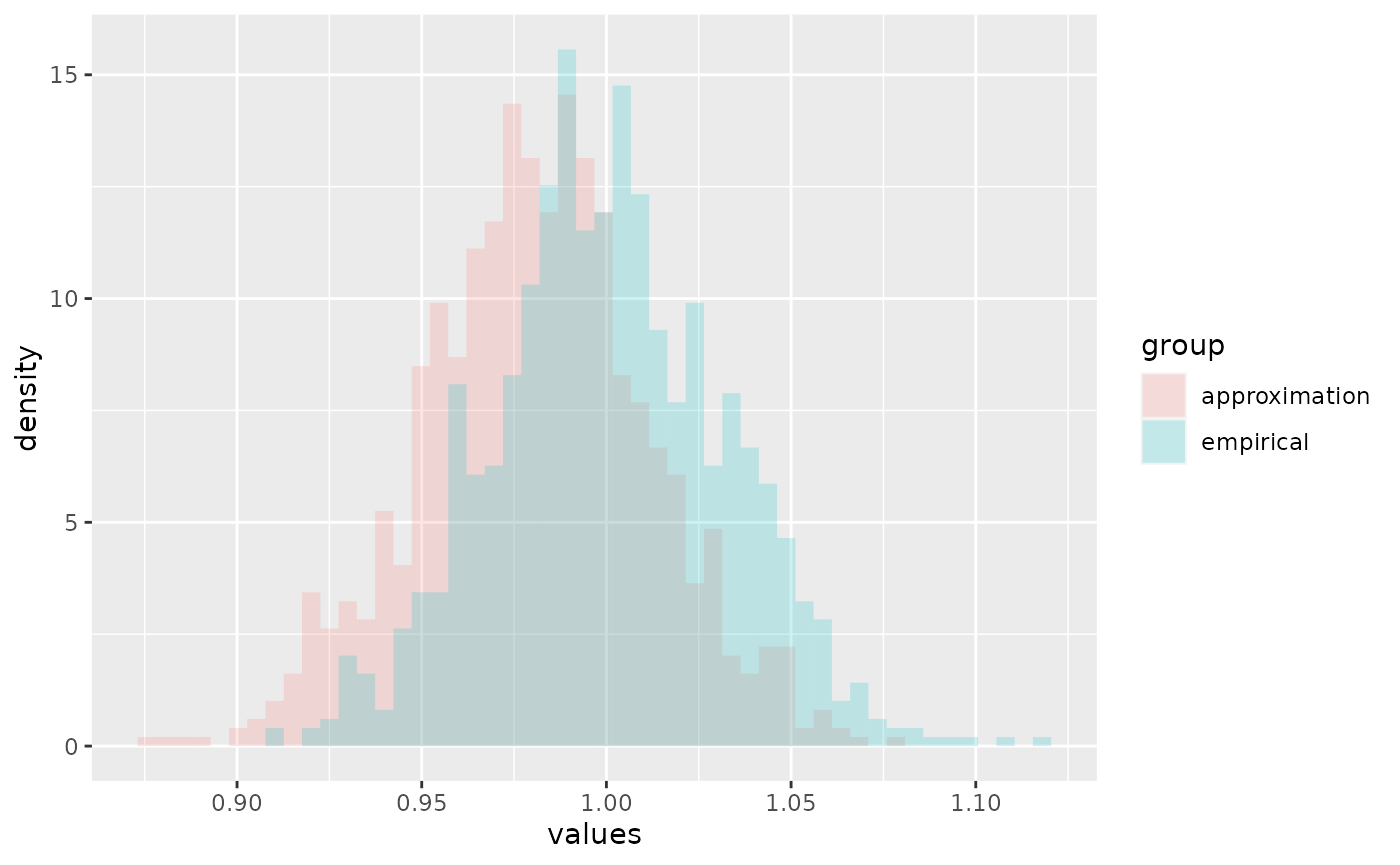
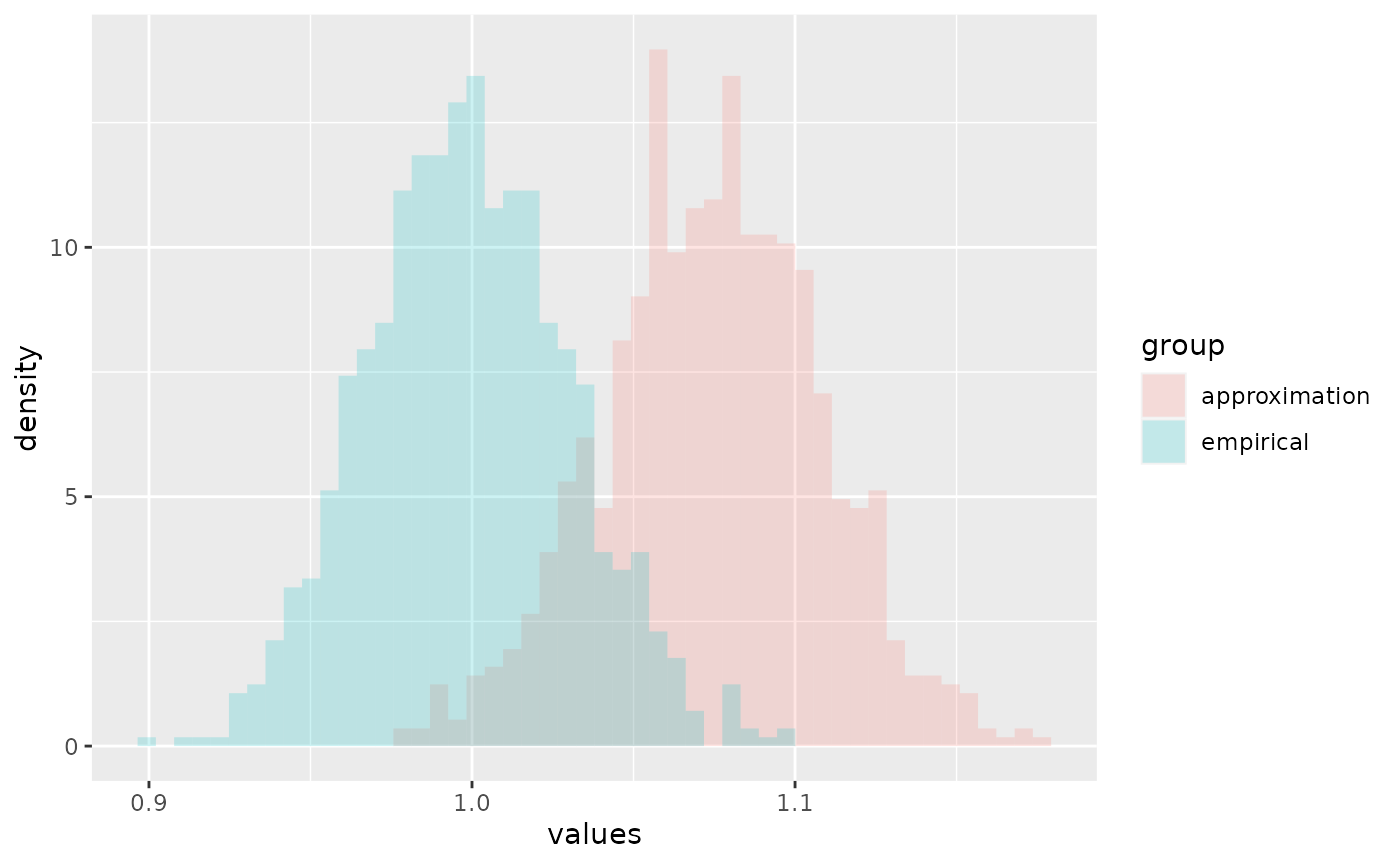
Built site for algebraic.mle: 0.9.0@d68ebe6

diff --git a/reference/mle_boot_loglike.html b/reference/mle_boot_loglike.html
@@ -1,8 +1,8 @@
 <!DOCTYPE html>
 <!-- Generated by pkgdown: do not edit by hand --><html lang="en"><head><meta http-equiv="Content-Type" content="text/html; charset=UTF-8"><meta charset="utf-8"><meta http-equiv="X-UA-Compatible" content="IE=edge"><meta name="viewport" content="width=device-width, initial-scale=1, shrink-to-fit=no"><meta name="description" content="A function for computing the sampling distribution of a statistic of the
 MLE's sampling distribution using the Bootstrap method."><title>A function for computing the sampling distribution of a statistic of the
-MLE's sampling distribution using the Bootstrap method. — mle_samp_bs_loglike • algebraic.mle</title><script src="../deps/jquery-3.6.0/jquery-3.6.0.min.js"></script><meta name="viewport" content="width=device-width, initial-scale=1, shrink-to-fit=no"><link href="../deps/bootstrap-5.1.0/bootstrap.min.css" rel="stylesheet"><script src="../deps/bootstrap-5.1.0/bootstrap.bundle.min.js"></script><!-- Font Awesome icons --><link rel="stylesheet" href="https://cdnjs.cloudflare.com/ajax/libs/font-awesome/5.12.1/css/all.min.css" integrity="sha256-mmgLkCYLUQbXn0B1SRqzHar6dCnv9oZFPEC1g1cwlkk=" crossorigin="anonymous"><link rel="stylesheet" href="https://cdnjs.cloudflare.com/ajax/libs/font-awesome/5.12.1/css/v4-shims.min.css" integrity="sha256-wZjR52fzng1pJHwx4aV2AO3yyTOXrcDW7jBpJtTwVxw=" crossorigin="anonymous"><!-- bootstrap-toc --><script src="https://cdn.rawgit.com/afeld/bootstrap-toc/v1.0.1/dist/bootstrap-toc.min.js"></script><!-- headroom.js --><script src="https://cdnjs.cloudflare.com/ajax/libs/headroom/0.11.0/headroom.min.js" integrity="sha256-AsUX4SJE1+yuDu5+mAVzJbuYNPHj/WroHuZ8Ir/CkE0=" crossorigin="anonymous"></script><script src="https://cdnjs.cloudflare.com/ajax/libs/headroom/0.11.0/jQuery.headroom.min.js" integrity="sha256-ZX/yNShbjqsohH1k95liqY9Gd8uOiE1S4vZc+9KQ1K4=" crossorigin="anonymous"></script><!-- clipboard.js --><script src="https://cdnjs.cloudflare.com/ajax/libs/clipboard.js/2.0.6/clipboard.min.js" integrity="sha256-inc5kl9MA1hkeYUt+EC3BhlIgyp/2jDIyBLS6k3UxPI=" crossorigin="anonymous"></script><!-- search --><script src="https://cdnjs.cloudflare.com/ajax/libs/fuse.js/6.4.6/fuse.js" integrity="sha512-zv6Ywkjyktsohkbp9bb45V6tEMoWhzFzXis+LrMehmJZZSys19Yxf1dopHx7WzIKxr5tK2dVcYmaCk2uqdjF4A==" crossorigin="anonymous"></script><script src="https://cdnjs.cloudflare.com/ajax/libs/autocomplete.js/0.38.0/autocomplete.jquery.min.js" integrity="sha512-GU9ayf+66Xx2TmpxqJpliWbT5PiGYxpaG8rfnBEk1LL8l1KGkRShhngwdXK1UgqhAzWpZHSiYPc09/NwDQIGyg==" crossorigin="anonymous"></script><script src="https://cdnjs.cloudflare.com/ajax/libs/mark.js/8.11.1/mark.min.js" integrity="sha512-5CYOlHXGh6QpOFA/TeTylKLWfB3ftPsde7AnmhuitiTX4K5SqCLBeKro6sPS8ilsz1Q4NRx3v8Ko2IBiszzdww==" crossorigin="anonymous"></script><!-- pkgdown --><script src="../pkgdown.js"></script><meta property="og:title" content="A function for computing the sampling distribution of a statistic of the
-MLE's sampling distribution using the Bootstrap method. — mle_samp_bs_loglike"><meta property="og:description" content="A function for computing the sampling distribution of a statistic of the
+MLE's sampling distribution using the Bootstrap method. — mle_boot_loglike • algebraic.mle</title><script src="../deps/jquery-3.6.0/jquery-3.6.0.min.js"></script><meta name="viewport" content="width=device-width, initial-scale=1, shrink-to-fit=no"><link href="../deps/bootstrap-5.1.0/bootstrap.min.css" rel="stylesheet"><script src="../deps/bootstrap-5.1.0/bootstrap.bundle.min.js"></script><!-- Font Awesome icons --><link rel="stylesheet" href="https://cdnjs.cloudflare.com/ajax/libs/font-awesome/5.12.1/css/all.min.css" integrity="sha256-mmgLkCYLUQbXn0B1SRqzHar6dCnv9oZFPEC1g1cwlkk=" crossorigin="anonymous"><link rel="stylesheet" href="https://cdnjs.cloudflare.com/ajax/libs/font-awesome/5.12.1/css/v4-shims.min.css" integrity="sha256-wZjR52fzng1pJHwx4aV2AO3yyTOXrcDW7jBpJtTwVxw=" crossorigin="anonymous"><!-- bootstrap-toc --><script src="https://cdn.rawgit.com/afeld/bootstrap-toc/v1.0.1/dist/bootstrap-toc.min.js"></script><!-- headroom.js --><script src="https://cdnjs.cloudflare.com/ajax/libs/headroom/0.11.0/headroom.min.js" integrity="sha256-AsUX4SJE1+yuDu5+mAVzJbuYNPHj/WroHuZ8Ir/CkE0=" crossorigin="anonymous"></script><script src="https://cdnjs.cloudflare.com/ajax/libs/headroom/0.11.0/jQuery.headroom.min.js" integrity="sha256-ZX/yNShbjqsohH1k95liqY9Gd8uOiE1S4vZc+9KQ1K4=" crossorigin="anonymous"></script><!-- clipboard.js --><script src="https://cdnjs.cloudflare.com/ajax/libs/clipboard.js/2.0.6/clipboard.min.js" integrity="sha256-inc5kl9MA1hkeYUt+EC3BhlIgyp/2jDIyBLS6k3UxPI=" crossorigin="anonymous"></script><!-- search --><script src="https://cdnjs.cloudflare.com/ajax/libs/fuse.js/6.4.6/fuse.js" integrity="sha512-zv6Ywkjyktsohkbp9bb45V6tEMoWhzFzXis+LrMehmJZZSys19Yxf1dopHx7WzIKxr5tK2dVcYmaCk2uqdjF4A==" crossorigin="anonymous"></script><script src="https://cdnjs.cloudflare.com/ajax/libs/autocomplete.js/0.38.0/autocomplete.jquery.min.js" integrity="sha512-GU9ayf+66Xx2TmpxqJpliWbT5PiGYxpaG8rfnBEk1LL8l1KGkRShhngwdXK1UgqhAzWpZHSiYPc09/NwDQIGyg==" crossorigin="anonymous"></script><script src="https://cdnjs.cloudflare.com/ajax/libs/mark.js/8.11.1/mark.min.js" integrity="sha512-5CYOlHXGh6QpOFA/TeTylKLWfB3ftPsde7AnmhuitiTX4K5SqCLBeKro6sPS8ilsz1Q4NRx3v8Ko2IBiszzdww==" crossorigin="anonymous"></script><!-- pkgdown --><script src="../pkgdown.js"></script><meta property="og:title" content="A function for computing the sampling distribution of a statistic of the
+MLE's sampling distribution using the Bootstrap method. — mle_boot_loglike"><meta property="og:description" content="A function for computing the sampling distribution of a statistic of the
 MLE's sampling distribution using the Bootstrap method."><!-- mathjax --><script src="https://cdnjs.cloudflare.com/ajax/libs/mathjax/2.7.5/MathJax.js" integrity="sha256-nvJJv9wWKEm88qvoQl9ekL2J+k/RWIsaSScxxlsrv8k=" crossorigin="anonymous"></script><script src="https://cdnjs.cloudflare.com/ajax/libs/mathjax/2.7.5/config/TeX-AMS-MML_HTMLorMML.js" integrity="sha256-84DKXVJXs0/F8OTMzX4UR909+jtl4G7SPypPavF+GfA=" crossorigin="anonymous"></script><!--[if lt IE 9]>
 <script src="https://oss.maxcdn.com/html5shiv/3.7.3/html5shiv.min.js"></script>
 <script src="https://oss.maxcdn.com/respond/1.4.2/respond.min.js"></script>
@@ -53,7 +53,7 @@ MLE's sampling distribution using the Bootstrap method."><!-- mathjax --><script
       <img src="" class="logo" alt=""><h1>A function for computing the sampling distribution of a statistic of the
 MLE's sampling distribution using the Bootstrap method.</h1>
       <small class="dont-index">Source: <a href="https://github.com/queelius/algebraic.mle/blob/HEAD/R/boot.R" class="external-link"><code>R/boot.R</code></a></small>
-      <div class="d-none name"><code>mle_samp_bs_loglike.Rd</code></div>
+      <div class="d-none name"><code>mle_boot_loglike.Rd</code></div>
     </div>
 
     <div class="ref-description section level2">
@@ -63,7 +63,7 @@ MLE's sampling distribution using the Bootstrap method.</p>
 
     <div class="section level2">
     <h2 id="ref-usage">Usage<a class="anchor" aria-label="anchor" href="#ref-usage"></a></h2>
-    <div class="sourceCode"><pre class="sourceCode r"><code><span class="fu">mle_samp_bs_loglike</span><span class="op">(</span><span class="va">mle</span>, <span class="va">loglike</span>, data <span class="op">=</span> <span class="cn">NULL</span>, R <span class="op">=</span> <span class="cn">NULL</span>, <span class="va">...</span><span class="op">)</span></code></pre></div>
+    <div class="sourceCode"><pre class="sourceCode r"><code><span class="fu">mle_boot_loglike</span><span class="op">(</span><span class="va">mle</span>, <span class="va">loglike.gen</span>, data <span class="op">=</span> <span class="cn">NULL</span>, R <span class="op">=</span> <span class="cn">NULL</span>, <span class="va">...</span><span class="op">)</span></code></pre></div>
     </div>
 
     <div class="section level2">
@@ -72,14 +72,14 @@ MLE's sampling distribution using the Bootstrap method.</p>
 <dd><p>a fitted <code>mle</code> object.</p></dd>
 
 
-<dt>loglike</dt>
+<dt>loglike.gen</dt>
 <dd><p>a generator for the log-likelihood function; it accepts
 observations and constructs the log-likelihood function
 with the <code>data</code> fixed and as a function of theta.</p></dd>
 
 
 <dt>data</dt>
-<dd><p>data for generatinng MLEs for the bootstrap resampling; default
+<dd><p>data for generating MLEs for the bootstrap resampling; default
 is NULL. If NULL, then try to use <code>obs(x)</code> instead.</p></dd>
 
 

diff --git a/reference/point.boot.html b/reference/point.boot.html
@@ -1,5 +1,7 @@
 <!DOCTYPE html>
-<!-- Generated by pkgdown: do not edit by hand --><html lang="en"><head><meta http-equiv="Content-Type" content="text/html; charset=UTF-8"><meta charset="utf-8"><meta http-equiv="X-UA-Compatible" content="IE=edge"><meta name="viewport" content="width=device-width, initial-scale=1, shrink-to-fit=no"><meta name="description" content="Computes the point estimate of an mle object."><title>Computes the point estimate of an mle object. — point.boot • algebraic.mle</title><script src="../deps/jquery-3.6.0/jquery-3.6.0.min.js"></script><meta name="viewport" content="width=device-width, initial-scale=1, shrink-to-fit=no"><link href="../deps/bootstrap-5.1.0/bootstrap.min.css" rel="stylesheet"><script src="../deps/bootstrap-5.1.0/bootstrap.bundle.min.js"></script><!-- Font Awesome icons --><link rel="stylesheet" href="https://cdnjs.cloudflare.com/ajax/libs/font-awesome/5.12.1/css/all.min.css" integrity="sha256-mmgLkCYLUQbXn0B1SRqzHar6dCnv9oZFPEC1g1cwlkk=" crossorigin="anonymous"><link rel="stylesheet" href="https://cdnjs.cloudflare.com/ajax/libs/font-awesome/5.12.1/css/v4-shims.min.css" integrity="sha256-wZjR52fzng1pJHwx4aV2AO3yyTOXrcDW7jBpJtTwVxw=" crossorigin="anonymous"><!-- bootstrap-toc --><script src="https://cdn.rawgit.com/afeld/bootstrap-toc/v1.0.1/dist/bootstrap-toc.min.js"></script><!-- headroom.js --><script src="https://cdnjs.cloudflare.com/ajax/libs/headroom/0.11.0/headroom.min.js" integrity="sha256-AsUX4SJE1+yuDu5+mAVzJbuYNPHj/WroHuZ8Ir/CkE0=" crossorigin="anonymous"></script><script src="https://cdnjs.cloudflare.com/ajax/libs/headroom/0.11.0/jQuery.headroom.min.js" integrity="sha256-ZX/yNShbjqsohH1k95liqY9Gd8uOiE1S4vZc+9KQ1K4=" crossorigin="anonymous"></script><!-- clipboard.js --><script src="https://cdnjs.cloudflare.com/ajax/libs/clipboard.js/2.0.6/clipboard.min.js" integrity="sha256-inc5kl9MA1hkeYUt+EC3BhlIgyp/2jDIyBLS6k3UxPI=" crossorigin="anonymous"></script><!-- search --><script src="https://cdnjs.cloudflare.com/ajax/libs/fuse.js/6.4.6/fuse.js" integrity="sha512-zv6Ywkjyktsohkbp9bb45V6tEMoWhzFzXis+LrMehmJZZSys19Yxf1dopHx7WzIKxr5tK2dVcYmaCk2uqdjF4A==" crossorigin="anonymous"></script><script src="https://cdnjs.cloudflare.com/ajax/libs/autocomplete.js/0.38.0/autocomplete.jquery.min.js" integrity="sha512-GU9ayf+66Xx2TmpxqJpliWbT5PiGYxpaG8rfnBEk1LL8l1KGkRShhngwdXK1UgqhAzWpZHSiYPc09/NwDQIGyg==" crossorigin="anonymous"></script><script src="https://cdnjs.cloudflare.com/ajax/libs/mark.js/8.11.1/mark.min.js" integrity="sha512-5CYOlHXGh6QpOFA/TeTylKLWfB3ftPsde7AnmhuitiTX4K5SqCLBeKro6sPS8ilsz1Q4NRx3v8Ko2IBiszzdww==" crossorigin="anonymous"></script><!-- pkgdown --><script src="../pkgdown.js"></script><meta property="og:title" content="Computes the point estimate of an mle object. — point.boot"><meta property="og:description" content="Computes the point estimate of an mle object."><!-- mathjax --><script src="https://cdnjs.cloudflare.com/ajax/libs/mathjax/2.7.5/MathJax.js" integrity="sha256-nvJJv9wWKEm88qvoQl9ekL2J+k/RWIsaSScxxlsrv8k=" crossorigin="anonymous"></script><script src="https://cdnjs.cloudflare.com/ajax/libs/mathjax/2.7.5/config/TeX-AMS-MML_HTMLorMML.js" integrity="sha256-84DKXVJXs0/F8OTMzX4UR909+jtl4G7SPypPavF+GfA=" crossorigin="anonymous"></script><!--[if lt IE 9]>
+<!-- Generated by pkgdown: do not edit by hand --><html lang="en"><head><meta http-equiv="Content-Type" content="text/html; charset=UTF-8"><meta charset="utf-8"><meta http-equiv="X-UA-Compatible" content="IE=edge"><meta name="viewport" content="width=device-width, initial-scale=1, shrink-to-fit=no"><meta name="description" content="Method for obtaining the parameter estimate of a boot object.
+Computes the point estimate of an mle object."><title>Method for obtaining the parameter estimate of a boot object. — point.boot • algebraic.mle</title><script src="../deps/jquery-3.6.0/jquery-3.6.0.min.js"></script><meta name="viewport" content="width=device-width, initial-scale=1, shrink-to-fit=no"><link href="../deps/bootstrap-5.1.0/bootstrap.min.css" rel="stylesheet"><script src="../deps/bootstrap-5.1.0/bootstrap.bundle.min.js"></script><!-- Font Awesome icons --><link rel="stylesheet" href="https://cdnjs.cloudflare.com/ajax/libs/font-awesome/5.12.1/css/all.min.css" integrity="sha256-mmgLkCYLUQbXn0B1SRqzHar6dCnv9oZFPEC1g1cwlkk=" crossorigin="anonymous"><link rel="stylesheet" href="https://cdnjs.cloudflare.com/ajax/libs/font-awesome/5.12.1/css/v4-shims.min.css" integrity="sha256-wZjR52fzng1pJHwx4aV2AO3yyTOXrcDW7jBpJtTwVxw=" crossorigin="anonymous"><!-- bootstrap-toc --><script src="https://cdn.rawgit.com/afeld/bootstrap-toc/v1.0.1/dist/bootstrap-toc.min.js"></script><!-- headroom.js --><script src="https://cdnjs.cloudflare.com/ajax/libs/headroom/0.11.0/headroom.min.js" integrity="sha256-AsUX4SJE1+yuDu5+mAVzJbuYNPHj/WroHuZ8Ir/CkE0=" crossorigin="anonymous"></script><script src="https://cdnjs.cloudflare.com/ajax/libs/headroom/0.11.0/jQuery.headroom.min.js" integrity="sha256-ZX/yNShbjqsohH1k95liqY9Gd8uOiE1S4vZc+9KQ1K4=" crossorigin="anonymous"></script><!-- clipboard.js --><script src="https://cdnjs.cloudflare.com/ajax/libs/clipboard.js/2.0.6/clipboard.min.js" integrity="sha256-inc5kl9MA1hkeYUt+EC3BhlIgyp/2jDIyBLS6k3UxPI=" crossorigin="anonymous"></script><!-- search --><script src="https://cdnjs.cloudflare.com/ajax/libs/fuse.js/6.4.6/fuse.js" integrity="sha512-zv6Ywkjyktsohkbp9bb45V6tEMoWhzFzXis+LrMehmJZZSys19Yxf1dopHx7WzIKxr5tK2dVcYmaCk2uqdjF4A==" crossorigin="anonymous"></script><script src="https://cdnjs.cloudflare.com/ajax/libs/autocomplete.js/0.38.0/autocomplete.jquery.min.js" integrity="sha512-GU9ayf+66Xx2TmpxqJpliWbT5PiGYxpaG8rfnBEk1LL8l1KGkRShhngwdXK1UgqhAzWpZHSiYPc09/NwDQIGyg==" crossorigin="anonymous"></script><script src="https://cdnjs.cloudflare.com/ajax/libs/mark.js/8.11.1/mark.min.js" integrity="sha512-5CYOlHXGh6QpOFA/TeTylKLWfB3ftPsde7AnmhuitiTX4K5SqCLBeKro6sPS8ilsz1Q4NRx3v8Ko2IBiszzdww==" crossorigin="anonymous"></script><!-- pkgdown --><script src="../pkgdown.js"></script><meta property="og:title" content="Method for obtaining the parameter estimate of a boot object. — point.boot"><meta property="og:description" content="Method for obtaining the parameter estimate of a boot object.
+Computes the point estimate of an mle object."><!-- mathjax --><script src="https://cdnjs.cloudflare.com/ajax/libs/mathjax/2.7.5/MathJax.js" integrity="sha256-nvJJv9wWKEm88qvoQl9ekL2J+k/RWIsaSScxxlsrv8k=" crossorigin="anonymous"></script><script src="https://cdnjs.cloudflare.com/ajax/libs/mathjax/2.7.5/config/TeX-AMS-MML_HTMLorMML.js" integrity="sha256-84DKXVJXs0/F8OTMzX4UR909+jtl4G7SPypPavF+GfA=" crossorigin="anonymous"></script><!--[if lt IE 9]>
 <script src="https://oss.maxcdn.com/html5shiv/3.7.3/html5shiv.min.js"></script>
 <script src="https://oss.maxcdn.com/respond/1.4.2/respond.min.js"></script>
 <![endif]--></head><body>
@@ -46,18 +48,22 @@
 </nav><div class="container template-reference-topic">
 <div class="row">
   <main id="main" class="col-md-9"><div class="page-header">
-      <img src="" class="logo" alt=""><h1>Computes the point estimate of an <code>mle</code> object.</h1>
+      <img src="" class="logo" alt=""><h1>Method for obtaining the parameter estimate of a <code>boot</code> object.</h1>
       <small class="dont-index">Source: <a href="https://github.com/queelius/algebraic.mle/blob/HEAD/R/boot.R" class="external-link"><code>R/boot.R</code></a></small>
       <div class="d-none name"><code>point.boot.Rd</code></div>
     </div>
 
     <div class="ref-description section level2">
-    <p>Computes the point estimate of an <code>mle</code> object.</p>
+    <p>Method for obtaining the parameter estimate of a <code>boot</code> object.</p>
+<p>Computes the point estimate of an <code>mle</code> object.</p>
     </div>
 
     <div class="section level2">
     <h2 id="ref-usage">Usage<a class="anchor" aria-label="anchor" href="#ref-usage"></a></h2>
     <div class="sourceCode"><pre class="sourceCode r"><code><span class="co"># S3 method for boot</span>
+<span class="fu"><a href="point.html">point</a></span><span class="op">(</span><span class="va">x</span>, <span class="va">...</span><span class="op">)</span>
+
+<span class="co"># S3 method for boot</span>
 <span class="fu"><a href="point.html">point</a></span><span class="op">(</span><span class="va">x</span>, <span class="va">...</span><span class="op">)</span></code></pre></div>
     </div>
 

diff --git a/articles/exponential-mle.html b/articles/exponential-mle.html
@@ -105,10 +105,10 @@
 <span class="co">#&gt; <span style="color: #949494;"># A tibble: 4 × 1</span></span>
 <span class="co">#&gt;        x</span>
 <span class="co">#&gt;    <span style="color: #949494; font-style: italic;">&lt;dbl&gt;</span></span>
-<span class="co">#&gt; <span style="color: #BCBCBC;">1</span> 0.623 </span>
-<span class="co">#&gt; <span style="color: #BCBCBC;">2</span> 0.159 </span>
-<span class="co">#&gt; <span style="color: #BCBCBC;">3</span> 0.063<span style="text-decoration: underline;">9</span></span>
-<span class="co">#&gt; <span style="color: #BCBCBC;">4</span> 0.071<span style="text-decoration: underline;">7</span></span></code></pre></div>
+<span class="co">#&gt; <span style="color: #BCBCBC;">1</span> 2.31  </span>
+<span class="co">#&gt; <span style="color: #BCBCBC;">2</span> 0.943 </span>
+<span class="co">#&gt; <span style="color: #BCBCBC;">3</span> 0.988 </span>
+<span class="co">#&gt; <span style="color: #BCBCBC;">4</span> 0.053<span style="text-decoration: underline;">7</span></span></code></pre></div>
 <p>We show a histogram of the sample overlaid with a plot of the exponential function’s pdf, with:</p>
 <div class="sourceCode" id="cb5"><pre class="downlit sourceCode r">
 <code class="sourceCode R"><span class="fu"><a href="https://ggplot2.tidyverse.org/reference/ggplot.html" class="external-link">ggplot</a></span><span class="op">(</span><span class="va">x</span>, <span class="fu"><a href="https://ggplot2.tidyverse.org/reference/aes.html" class="external-link">aes</a></span><span class="op">(</span>x<span class="op">=</span><span class="va">x</span><span class="op">)</span><span class="op">)</span> <span class="op">+</span> <span class="fu"><a href="https://ggplot2.tidyverse.org/reference/geom_histogram.html" class="external-link">geom_histogram</a></span><span class="op">(</span><span class="fu"><a href="https://ggplot2.tidyverse.org/reference/aes.html" class="external-link">aes</a></span><span class="op">(</span>y<span class="op">=</span><span class="va">..density..</span><span class="op">)</span>,alpha<span class="op">=</span><span class="fl">.2</span><span class="op">)</span> <span class="op">+</span>
@@ -125,35 +125,35 @@
 <span class="fu"><a href="https://rdrr.io/r/base/summary.html" class="external-link">summary</a></span><span class="op">(</span><span class="va">rate.hat</span><span class="op">)</span>
 <span class="co">#&gt; Maximum likelihood estimator, of type mle ,</span>
 <span class="co">#&gt; is normally distributed with mean</span>
-<span class="co">#&gt; [1] 0.9820657</span>
+<span class="co">#&gt; [1] 1.074201</span>
 <span class="co">#&gt; and variance-covariance</span>
 <span class="co">#&gt;             [,1]</span>
-<span class="co">#&gt; [1,] 0.000964453</span>
+<span class="co">#&gt; [1,] 0.001153907</span>
 <span class="co">#&gt; ---</span>
-<span class="co">#&gt; The asymptotic mean squared error 0.000964453 </span>
+<span class="co">#&gt; The asymptotic mean squared error 0.001153907 </span>
 <span class="co">#&gt; The asymptotic 95% confidence interval is</span>
-<span class="co">#&gt;       2.5 %   97.5 %</span>
-<span class="co">#&gt; 1 0.9309837 1.033148</span>
-<span class="co">#&gt; The log-likelihood is -1018.097 </span>
-<span class="co">#&gt; The AIC is 2038.194</span></code></pre></div>
+<span class="co">#&gt;      2.5 %   97.5 %</span>
+<span class="co">#&gt; 1 1.018326 1.130075</span>
+<span class="co">#&gt; The log-likelihood is -928.4233 </span>
+<span class="co">#&gt; The AIC is 1858.847</span></code></pre></div>
 <p>We can show the point estimator with:</p>
 <div class="sourceCode" id="cb7"><pre class="downlit sourceCode r">
 <code class="sourceCode R"><span class="fu"><a href="../reference/point.html">point</a></span><span class="op">(</span><span class="va">rate.hat</span><span class="op">)</span>
-<span class="co">#&gt; [1] 0.9820657</span></code></pre></div>
+<span class="co">#&gt; [1] 1.074201</span></code></pre></div>
 <p>We can show the Fisher information and variance-covariance matrices with:</p>
 <div class="sourceCode" id="cb8"><pre class="downlit sourceCode r">
 <code class="sourceCode R"><span class="fu"><a href="../reference/fisher_info.html">fisher_info</a></span><span class="op">(</span><span class="va">rate.hat</span><span class="op">)</span>
 <span class="co">#&gt;          [,1]</span>
-<span class="co">#&gt; [1,] 1036.857</span>
+<span class="co">#&gt; [1,] 866.6211</span>
 <span class="fu"><a href="https://rdrr.io/r/stats/vcov.html" class="external-link">vcov</a></span><span class="op">(</span><span class="va">rate.hat</span><span class="op">)</span>
 <span class="co">#&gt;             [,1]</span>
-<span class="co">#&gt; [1,] 0.000964453</span></code></pre></div>
+<span class="co">#&gt; [1,] 0.001153907</span></code></pre></div>
 <p>(If <code>rate.hat</code> had been a vector, <code>vcov</code> would have output a variance-covariance matrix. We may consider the above outputs <span class="math inline">\(1 \times 1\)</span> matrices.)</p>
 <p>We can show the confidence interval with:</p>
 <div class="sourceCode" id="cb9"><pre class="downlit sourceCode r">
 <code class="sourceCode R"><span class="fu"><a href="https://rdrr.io/r/stats/confint.html" class="external-link">confint</a></span><span class="op">(</span><span class="va">rate.hat</span><span class="op">)</span>
-<span class="co">#&gt;       2.5 %   97.5 %</span>
-<span class="co">#&gt; 1 0.9309837 1.033148</span></code></pre></div>
+<span class="co">#&gt;      2.5 %   97.5 %</span>
+<span class="co">#&gt; 1 1.018326 1.130075</span></code></pre></div>
 <div class="section level3">
 <h3 id="sampling-distribution-of-the-mle">Sampling distribution of the MLE<a class="anchor" aria-label="anchor" href="#sampling-distribution-of-the-mle"></a>
 </h3>
@@ -206,10 +206,10 @@
 <div class="sourceCode" id="cb15"><pre class="downlit sourceCode r">
 <code class="sourceCode R"><span class="fu"><a href="../reference/point.html">point</a></span><span class="op">(</span><span class="va">f.hat</span><span class="op">)</span>
 <span class="co">#&gt;          [,1]</span>
-<span class="co">#&gt; [1,] 1.964131</span>
+<span class="co">#&gt; [1,] 2.148401</span>
 <span class="fu"><a href="https://rdrr.io/r/stats/vcov.html" class="external-link">vcov</a></span><span class="op">(</span><span class="va">f.hat</span><span class="op">)</span>
 <span class="co">#&gt;             [,1]</span>
-<span class="co">#&gt; [1,] 0.003963164</span></code></pre></div>
+<span class="co">#&gt; [1,] 0.004569384</span></code></pre></div>
 </div>
 </div>
 </div>
@@ -248,9 +248,9 @@
 <span class="fu"><a href="https://rdrr.io/r/base/colnames.html" class="external-link">colnames</a></span><span class="op">(</span><span class="va">df</span><span class="op">)</span> <span class="op">&lt;-</span> <span class="fu"><a href="https://rdrr.io/r/base/c.html" class="external-link">c</a></span><span class="op">(</span><span class="st">"point estimate"</span>,<span class="st">"variance"</span><span class="op">)</span>
 <span class="fu"><a href="https://tibble.tidyverse.org/reference/rownames.html" class="external-link">rownames</a></span><span class="op">(</span><span class="va">df</span><span class="op">)</span> <span class="op">&lt;-</span> <span class="fu"><a href="https://rdrr.io/r/base/c.html" class="external-link">c</a></span><span class="op">(</span><span class="st">"weighted MLE"</span>, <span class="st">"MLE"</span><span class="op">)</span>
 <span class="fu"><a href="https://rdrr.io/r/base/print.html" class="external-link">print</a></span><span class="op">(</span><span class="va">df</span><span class="op">)</span>
-<span class="co">#&gt;              point estimate    variance</span>
-<span class="co">#&gt; weighted MLE       1.020578 0.001045457</span>
-<span class="co">#&gt; MLE                1.024378 0.001049350</span></code></pre></div>
+<span class="co">#&gt;              point estimate     variance</span>
+<span class="co">#&gt; weighted MLE      0.9535007 0.0009182141</span>
+<span class="co">#&gt; MLE               0.9629926 0.0009273548</span></code></pre></div>
 <p>We see that <span class="math inline">\(\hat\theta\)</span> and <span class="math inline">\(\hat\theta_w\)</span> model approximately the same sampling distribution for <span class="math inline">\(\theta\)</span>.</p>
 </div>
 </div>

diff --git a/reference/mle_boot.html b/reference/mle_boot.html
@@ -1,8 +1,8 @@
 <!DOCTYPE html>
 <!-- Generated by pkgdown: do not edit by hand --><html lang="en"><head><meta http-equiv="Content-Type" content="text/html; charset=UTF-8"><meta charset="utf-8"><meta http-equiv="X-UA-Compatible" content="IE=edge"><meta name="viewport" content="width=device-width, initial-scale=1, shrink-to-fit=no"><meta name="description" content="A function for estimating the empirical sampling distribution the
 MLE using the Bootstrap method."><title>A function for estimating the empirical sampling distribution the
-MLE using the Bootstrap method. — mle_samp_bs • algebraic.mle</title><script src="../deps/jquery-3.6.0/jquery-3.6.0.min.js"></script><meta name="viewport" content="width=device-width, initial-scale=1, shrink-to-fit=no"><link href="../deps/bootstrap-5.1.0/bootstrap.min.css" rel="stylesheet"><script src="../deps/bootstrap-5.1.0/bootstrap.bundle.min.js"></script><!-- Font Awesome icons --><link rel="stylesheet" href="https://cdnjs.cloudflare.com/ajax/libs/font-awesome/5.12.1/css/all.min.css" integrity="sha256-mmgLkCYLUQbXn0B1SRqzHar6dCnv9oZFPEC1g1cwlkk=" crossorigin="anonymous"><link rel="stylesheet" href="https://cdnjs.cloudflare.com/ajax/libs/font-awesome/5.12.1/css/v4-shims.min.css" integrity="sha256-wZjR52fzng1pJHwx4aV2AO3yyTOXrcDW7jBpJtTwVxw=" crossorigin="anonymous"><!-- bootstrap-toc --><script src="https://cdn.rawgit.com/afeld/bootstrap-toc/v1.0.1/dist/bootstrap-toc.min.js"></script><!-- headroom.js --><script src="https://cdnjs.cloudflare.com/ajax/libs/headroom/0.11.0/headroom.min.js" integrity="sha256-AsUX4SJE1+yuDu5+mAVzJbuYNPHj/WroHuZ8Ir/CkE0=" crossorigin="anonymous"></script><script src="https://cdnjs.cloudflare.com/ajax/libs/headroom/0.11.0/jQuery.headroom.min.js" integrity="sha256-ZX/yNShbjqsohH1k95liqY9Gd8uOiE1S4vZc+9KQ1K4=" crossorigin="anonymous"></script><!-- clipboard.js --><script src="https://cdnjs.cloudflare.com/ajax/libs/clipboard.js/2.0.6/clipboard.min.js" integrity="sha256-inc5kl9MA1hkeYUt+EC3BhlIgyp/2jDIyBLS6k3UxPI=" crossorigin="anonymous"></script><!-- search --><script src="https://cdnjs.cloudflare.com/ajax/libs/fuse.js/6.4.6/fuse.js" integrity="sha512-zv6Ywkjyktsohkbp9bb45V6tEMoWhzFzXis+LrMehmJZZSys19Yxf1dopHx7WzIKxr5tK2dVcYmaCk2uqdjF4A==" crossorigin="anonymous"></script><script src="https://cdnjs.cloudflare.com/ajax/libs/autocomplete.js/0.38.0/autocomplete.jquery.min.js" integrity="sha512-GU9ayf+66Xx2TmpxqJpliWbT5PiGYxpaG8rfnBEk1LL8l1KGkRShhngwdXK1UgqhAzWpZHSiYPc09/NwDQIGyg==" crossorigin="anonymous"></script><script src="https://cdnjs.cloudflare.com/ajax/libs/mark.js/8.11.1/mark.min.js" integrity="sha512-5CYOlHXGh6QpOFA/TeTylKLWfB3ftPsde7AnmhuitiTX4K5SqCLBeKro6sPS8ilsz1Q4NRx3v8Ko2IBiszzdww==" crossorigin="anonymous"></script><!-- pkgdown --><script src="../pkgdown.js"></script><meta property="og:title" content="A function for estimating the empirical sampling distribution the
-MLE using the Bootstrap method. — mle_samp_bs"><meta property="og:description" content="A function for estimating the empirical sampling distribution the
+MLE using the Bootstrap method. — mle_boot • algebraic.mle</title><script src="../deps/jquery-3.6.0/jquery-3.6.0.min.js"></script><meta name="viewport" content="width=device-width, initial-scale=1, shrink-to-fit=no"><link href="../deps/bootstrap-5.1.0/bootstrap.min.css" rel="stylesheet"><script src="../deps/bootstrap-5.1.0/bootstrap.bundle.min.js"></script><!-- Font Awesome icons --><link rel="stylesheet" href="https://cdnjs.cloudflare.com/ajax/libs/font-awesome/5.12.1/css/all.min.css" integrity="sha256-mmgLkCYLUQbXn0B1SRqzHar6dCnv9oZFPEC1g1cwlkk=" crossorigin="anonymous"><link rel="stylesheet" href="https://cdnjs.cloudflare.com/ajax/libs/font-awesome/5.12.1/css/v4-shims.min.css" integrity="sha256-wZjR52fzng1pJHwx4aV2AO3yyTOXrcDW7jBpJtTwVxw=" crossorigin="anonymous"><!-- bootstrap-toc --><script src="https://cdn.rawgit.com/afeld/bootstrap-toc/v1.0.1/dist/bootstrap-toc.min.js"></script><!-- headroom.js --><script src="https://cdnjs.cloudflare.com/ajax/libs/headroom/0.11.0/headroom.min.js" integrity="sha256-AsUX4SJE1+yuDu5+mAVzJbuYNPHj/WroHuZ8Ir/CkE0=" crossorigin="anonymous"></script><script src="https://cdnjs.cloudflare.com/ajax/libs/headroom/0.11.0/jQuery.headroom.min.js" integrity="sha256-ZX/yNShbjqsohH1k95liqY9Gd8uOiE1S4vZc+9KQ1K4=" crossorigin="anonymous"></script><!-- clipboard.js --><script src="https://cdnjs.cloudflare.com/ajax/libs/clipboard.js/2.0.6/clipboard.min.js" integrity="sha256-inc5kl9MA1hkeYUt+EC3BhlIgyp/2jDIyBLS6k3UxPI=" crossorigin="anonymous"></script><!-- search --><script src="https://cdnjs.cloudflare.com/ajax/libs/fuse.js/6.4.6/fuse.js" integrity="sha512-zv6Ywkjyktsohkbp9bb45V6tEMoWhzFzXis+LrMehmJZZSys19Yxf1dopHx7WzIKxr5tK2dVcYmaCk2uqdjF4A==" crossorigin="anonymous"></script><script src="https://cdnjs.cloudflare.com/ajax/libs/autocomplete.js/0.38.0/autocomplete.jquery.min.js" integrity="sha512-GU9ayf+66Xx2TmpxqJpliWbT5PiGYxpaG8rfnBEk1LL8l1KGkRShhngwdXK1UgqhAzWpZHSiYPc09/NwDQIGyg==" crossorigin="anonymous"></script><script src="https://cdnjs.cloudflare.com/ajax/libs/mark.js/8.11.1/mark.min.js" integrity="sha512-5CYOlHXGh6QpOFA/TeTylKLWfB3ftPsde7AnmhuitiTX4K5SqCLBeKro6sPS8ilsz1Q4NRx3v8Ko2IBiszzdww==" crossorigin="anonymous"></script><!-- pkgdown --><script src="../pkgdown.js"></script><meta property="og:title" content="A function for estimating the empirical sampling distribution the
+MLE using the Bootstrap method. — mle_boot"><meta property="og:description" content="A function for estimating the empirical sampling distribution the
 MLE using the Bootstrap method."><!-- mathjax --><script src="https://cdnjs.cloudflare.com/ajax/libs/mathjax/2.7.5/MathJax.js" integrity="sha256-nvJJv9wWKEm88qvoQl9ekL2J+k/RWIsaSScxxlsrv8k=" crossorigin="anonymous"></script><script src="https://cdnjs.cloudflare.com/ajax/libs/mathjax/2.7.5/config/TeX-AMS-MML_HTMLorMML.js" integrity="sha256-84DKXVJXs0/F8OTMzX4UR909+jtl4G7SPypPavF+GfA=" crossorigin="anonymous"></script><!--[if lt IE 9]>
 <script src="https://oss.maxcdn.com/html5shiv/3.7.3/html5shiv.min.js"></script>
 <script src="https://oss.maxcdn.com/respond/1.4.2/respond.min.js"></script>
@@ -53,7 +53,7 @@ MLE using the Bootstrap method."><!-- mathjax --><script src="https://cdnjs.clou
       <img src="" class="logo" alt=""><h1>A function for estimating the empirical sampling distribution the
 MLE using the Bootstrap method.</h1>
       <small class="dont-index">Source: <a href="https://github.com/queelius/algebraic.mle/blob/HEAD/R/boot.R" class="external-link"><code>R/boot.R</code></a></small>
-      <div class="d-none name"><code>mle_samp_bs.Rd</code></div>
+      <div class="d-none name"><code>mle_boot.Rd</code></div>
     </div>
 
     <div class="ref-description section level2">
@@ -63,12 +63,12 @@ MLE using the Bootstrap method.</p>
 
     <div class="section level2">
     <h2 id="ref-usage">Usage<a class="anchor" aria-label="anchor" href="#ref-usage"></a></h2>
-    <div class="sourceCode"><pre class="sourceCode r"><code><span class="fu">mle_samp_bs</span><span class="op">(</span><span class="va">x</span>, <span class="va">mle_solver</span>, data <span class="op">=</span> <span class="cn">NULL</span>, R <span class="op">=</span> <span class="cn">NULL</span>, <span class="va">...</span><span class="op">)</span></code></pre></div>
+    <div class="sourceCode"><pre class="sourceCode r"><code><span class="fu">mle_boot</span><span class="op">(</span><span class="va">mle</span>, <span class="va">mle_solver</span>, data <span class="op">=</span> <span class="cn">NULL</span>, R <span class="op">=</span> <span class="cn">NULL</span>, <span class="va">...</span><span class="op">)</span></code></pre></div>
     </div>
 
     <div class="section level2">
     <h2 id="arguments">Arguments<a class="anchor" aria-label="anchor" href="#arguments"></a></h2>
-    <dl><dt>x</dt>
+    <dl><dt>mle</dt>
 <dd><p>a fitted <code>mle</code> object.</p></dd>
 
 

diff --git a/reference/index.html b/reference/index.html
@@ -131,6 +131,18 @@ object, assuming it has a likelihood function, e.g., a fitted `mle` object.</dd>
         <dd><code>make_mle</code> makes an <code>mle</code> object.</dd>
       </dl><dl><dt>
           
+          <code><a href="mle_boot.html">mle_boot()</a></code> 
+        </dt>
+        <dd>A function for estimating the empirical sampling distribution the
+MLE using the Bootstrap method.</dd>
+      </dl><dl><dt>
+          
+          <code><a href="mle_boot_loglike.html">mle_boot_loglike()</a></code> 
+        </dt>
+        <dd>A function for computing the sampling distribution of a statistic of the
+MLE's sampling distribution using the Bootstrap method.</dd>
+      </dl><dl><dt>
+          
           <code><a href="mle_exp.html">mle_exp()</a></code> 
         </dt>
         <dd>MLE of the rate parameter when we assume the sample is i.i.d. and drawn
@@ -156,18 +168,6 @@ on the LHS by a matrix <code>A</code>.</dd>
           <code><a href="mle_newton_raphson.html">mle_newton_raphson()</a></code> 
         </dt>
         <dd>Iterative MLE method using the Newton-Raphson method</dd>
-      </dl><dl><dt>
-          
-          <code><a href="mle_samp_bs.html">mle_samp_bs()</a></code> 
-        </dt>
-        <dd>A function for estimating the empirical sampling distribution the
-MLE using the Bootstrap method.</dd>
-      </dl><dl><dt>
-          
-          <code><a href="mle_samp_bs_loglike.html">mle_samp_bs_loglike()</a></code> 
-        </dt>
-        <dd>A function for computing the sampling distribution of a statistic of the
-MLE's sampling distribution using the Bootstrap method.</dd>
       </dl><dl><dt>
           
           <code><a href="mle_weighted.html">mle_weighted()</a></code> 
@@ -256,9 +256,9 @@ distribution object.</dd>
         <dd>Generic method for obtaining the best point estimate from an estimator.</dd>
       </dl><dl><dt>
           
-          <code><a href="point.boot.html">point(<i>&lt;boot&gt;</i>)</a></code> 
+          <code><a href="point.boot.html">point(<i>&lt;boot&gt;</i>)</a></code> <code><a href="point.boot.html">point(<i>&lt;boot&gt;</i>)</a></code> 
         </dt>
-        <dd>Computes the point estimate of an <code>mle</code> object.</dd>
+        <dd>Method for obtaining the parameter estimate of a <code>boot</code> object.</dd>
       </dl><dl><dt>
           
           <code><a href="point.mle.html">point(<i>&lt;mle&gt;</i>)</a></code> 

diff --git a/reference/confint.boot.html b/reference/confint.boot.html
@@ -58,7 +58,7 @@
     <div class="section level2">
     <h2 id="ref-usage">Usage<a class="anchor" aria-label="anchor" href="#ref-usage"></a></h2>
     <div class="sourceCode"><pre class="sourceCode r"><code><span class="co"># S3 method for boot</span>
-<span class="fu"><a href="https://rdrr.io/r/stats/confint.html" class="external-link">confint</a></span><span class="op">(</span><span class="va">object</span>, parm <span class="op">=</span> <span class="cn">NULL</span>, level <span class="op">=</span> <span class="fl">0.95</span>, type <span class="op">=</span> <span class="st">"bca"</span>, <span class="va">...</span><span class="op">)</span></code></pre></div>
+<span class="fu"><a href="https://rdrr.io/r/stats/confint.html" class="external-link">confint</a></span><span class="op">(</span><span class="va">object</span>, parm <span class="op">=</span> <span class="cn">NULL</span>, level <span class="op">=</span> <span class="fl">0.95</span>, type <span class="op">=</span> <span class="st">"perc"</span>, <span class="va">...</span><span class="op">)</span></code></pre></div>
     </div>
 
     <div class="section level2">
